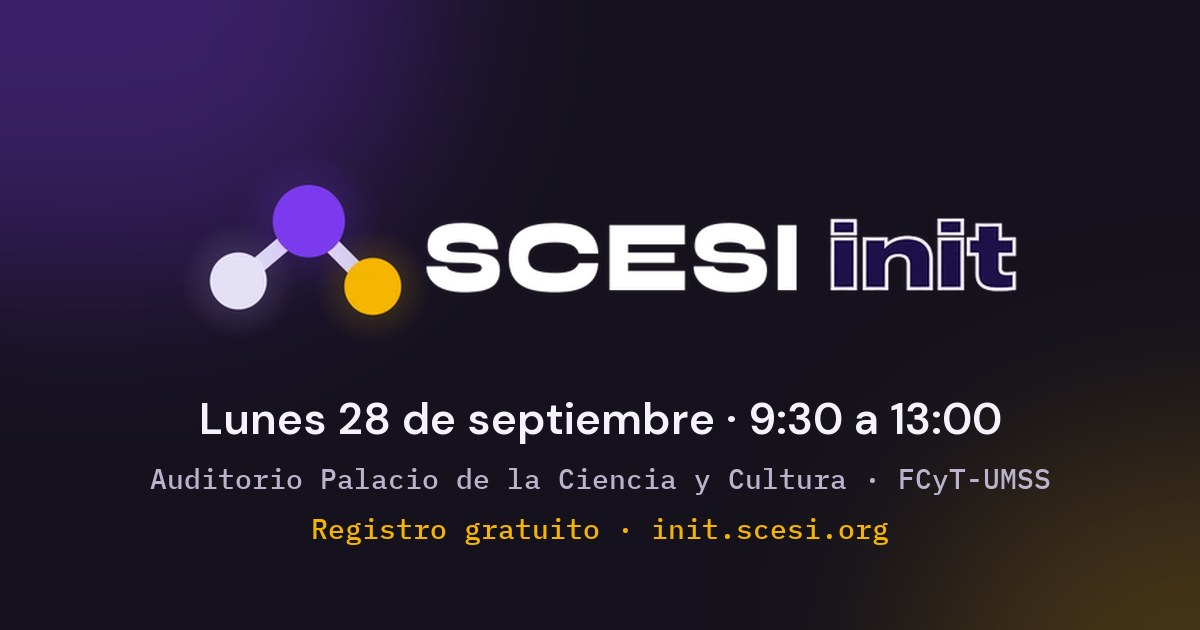
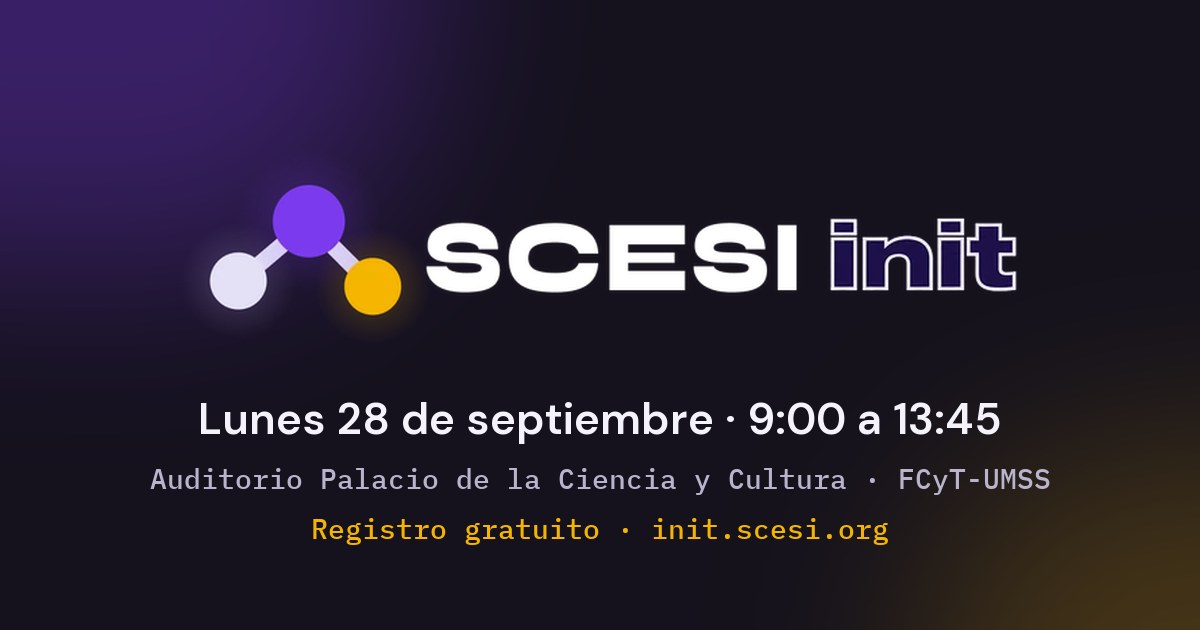
feat: add new speakers with photos and update event hours

Changed region(s): [[0.185, 0.6333, 0.5858, 0.6937], [0.6167, 0.6333, 0.8325, 0.6937]]

diff --git a/index.html b/index.html
@@ -4,7 +4,7 @@
 <meta charset="utf-8">
 <title>SCESI init</title>
 <meta content="width=device-width, initial-scale=1.0" name="viewport">
-<meta name="description" content="Lunes 28 de septiembre · 9:30 a 13:00 · Auditorio Palacio de la Ciencia y Cultura, FCyT-UMSS. El evento donde tu camino en Informática y Sistemas empieza. Registro gratuito.">
+<meta name="description" content="Lunes 28 de septiembre · 9:00 a 13:45 · Auditorio Palacio de la Ciencia y Cultura, FCyT-UMSS. El evento donde tu camino en Informática y Sistemas empieza. Registro gratuito.">
 <meta name="theme-color" content="#15121d">
 
 <!-- Vista previa al compartir el enlace (WhatsApp, Discord, Instagram, X).
@@ -15,19 +15,19 @@
 <meta property="og:site_name" content="SCESI init">
 <meta property="og:locale" content="es_BO">
 <meta property="og:title" content="SCESI init">
-<meta property="og:description" content="Lunes 28 de septiembre · 9:30 a 13:00 · Auditorio Palacio de la Ciencia y Cultura, FCyT-UMSS. El evento donde tu camino en Informática y Sistemas empieza. Registro gratuito.">
+<meta property="og:description" content="Lunes 28 de septiembre · 9:00 a 13:45 · Auditorio Palacio de la Ciencia y Cultura, FCyT-UMSS. El evento donde tu camino en Informática y Sistemas empieza. Registro gratuito.">
 <meta property="og:url" content="https://init.scesi.org/">
-<meta property="og:image" content="https://init.scesi.org/img/og.jpg?v=1">
-<meta property="og:image:secure_url" content="https://init.scesi.org/img/og.jpg?v=1">
+<meta property="og:image" content="https://init.scesi.org/img/og.jpg?v=2">
+<meta property="og:image:secure_url" content="https://init.scesi.org/img/og.jpg?v=2">
 <meta property="og:image:type" content="image/jpeg">
 <meta property="og:image:width" content="1200">
 <meta property="og:image:height" content="630">
-<meta property="og:image:alt" content="SCESI init · Lunes 28 de septiembre · 9:30 a 13:00 · FCyT-UMSS">
+<meta property="og:image:alt" content="SCESI init · Lunes 28 de septiembre · 9:00 a 13:45 · FCyT-UMSS">
 
 <meta name="twitter:card" content="summary_large_image">
 <meta name="twitter:title" content="SCESI init">
-<meta name="twitter:description" content="Lunes 28 de septiembre · 9:30 a 13:00 · Auditorio Palacio de la Ciencia y Cultura, FCyT-UMSS. El evento donde tu camino en Informática y Sistemas empieza. Registro gratuito.">
-<meta name="twitter:image" content="https://init.scesi.org/img/og.jpg?v=1">
+<meta name="twitter:description" content="Lunes 28 de septiembre · 9:00 a 13:45 · Auditorio Palacio de la Ciencia y Cultura, FCyT-UMSS. El evento donde tu camino en Informática y Sistemas empieza. Registro gratuito.">
+<meta name="twitter:image" content="https://init.scesi.org/img/og.jpg?v=2">
 
 <link rel="icon" href="favicon.svg" type="image/svg+xml">
 <link href="https://fonts.googleapis.com" rel="preconnect">
@@ -44,7 +44,7 @@
 <link rel="dns-prefetch" href="https://maps.gstatic.com">
 <link href="https://fonts.googleapis.com/css2?family=DM+Sans:ital,opsz,wght@0,9..40,100..1000;1,9..40,100..1000&amp;family=IBM+Plex+Mono:ital,wght@0,100;0,200;0,300;0,400;0,500;0,600;0,700;1,100;1,200;1,300;1,400;1,500;1,600;1,700&amp;family=Syne:wght@400..800&amp;display=swap" rel="stylesheet">
 <link href="https://fonts.googleapis.com/css2?family=Material+Symbols+Outlined:wght,FILL@100..700,0..1&amp;display=swap" rel="stylesheet">
-<link rel="stylesheet" href="styles.css?v=24">
+<link rel="stylesheet" href="styles.css?v=29">
 </head>
 <body class="bg-background font-body-md text-on-surface antialiased selection:bg-primary-container selection:text-on-primary-container">
 
@@ -112,7 +112,7 @@
           <span class="material-symbols-outlined text-tertiary text-[22px] shrink-0">event</span>
           <span class="font-label-code-md text-label-code-md font-bold text-tertiary-fixed" data-evento-fecha>Lunes 28 de septiembre</span>
           <span class="text-on-surface-variant">·</span>
-          <span class="font-label-code-md text-label-code-md font-bold text-secondary">9:30 — 13:00</span>
+          <span class="font-label-code-md text-label-code-md font-bold text-secondary">9:00 — 13:45</span>
         </div>
         <div class="flex items-start gap-spacing-2xs">
           <span class="material-symbols-outlined text-tertiary text-[22px] shrink-0">location_on</span>
@@ -174,38 +174,12 @@
       </p>
     </div>
 
-    <!-- Mobile: apiladas en una columna. Desde sm, 2 filas: arriba 2 tarjetas
-         centradas, abajo 3 (ver #speakers-grid en styles.css). Cada tarjeta:
+    <!-- Mobile: apiladas en una columna. Desde sm, en el orden del
+         cronograma: Jairo y Winsor centrados arriba, luego ICPC y el resto en
+         filas de 3 (ver #speakers-grid en styles.css). Cada tarjeta:
          nombre, foto (speakers/) y perfil abreviado de alto fijo, para que
          las cinco midan lo mismo. -->
     <div id="speakers-grid">
-      <article class="spk-1 group min-w-0 rounded-2xl overflow-hidden bg-surface-container-low border border-[#C4B5FD]/20 flex flex-col transition-colors duration-300 hover:border-[#8B5CF6]/50">
-        <div class="h-14 sm:h-[3.75rem] shrink-0 px-spacing-xs sm:px-spacing-sm flex items-center">
-          <h3 class="font-headline-sm text-[15px] sm:text-title-md font-bold text-on-surface leading-tight line-clamp-2">Lic. Leticia Blanco Coca</h3>
-        </div>
-
-        <div class="relative aspect-[4/5] sm:aspect-[5/4] overflow-hidden bg-gradient-to-b from-surface-container to-surface-container-lowest flex items-center justify-center">
-          <span class="material-symbols-outlined text-[64px] text-on-surface-variant/30">person</span>
-          <img src="speakers/leticia.webp" alt="Lic. Leticia Blanco Coca" loading="lazy" onerror="this.remove()"
-               class="absolute inset-0 w-full h-full object-cover object-top transition-transform duration-500 group-hover:scale-105">
-        </div>
-        <div class="h-[6.25rem] sm:h-[5.25rem] shrink-0 p-spacing-xs sm:p-spacing-sm flex items-start overflow-hidden">
-          <p class="font-body-md text-[10px] leading-snug sm:text-[14px] sm:leading-[1.45] text-on-surface-variant line-clamp-6 sm:line-clamp-3">Docente titular y coach de los equipos de programación competitiva de la UMSS. Encargada de la organización de talleres y cursos de entrenamiento en la ICPC, impulsando el pensamiento lógico y el alto rendimiento académico de los estudiantes.</p>
-        </div>
-      </article>
-      <article class="spk-2 group min-w-0 rounded-2xl overflow-hidden bg-surface-container-low border border-[#C4B5FD]/20 flex flex-col transition-colors duration-300 hover:border-[#8B5CF6]/50">
-        <div class="h-14 sm:h-[3.75rem] shrink-0 px-spacing-xs sm:px-spacing-sm flex items-center">
-          <h3 class="font-headline-sm text-[15px] sm:text-title-md font-bold text-on-surface leading-tight line-clamp-2">Ing. Jorge Walter Orellana Araoz</h3>
-        </div>
-        <div class="relative aspect-[4/5] sm:aspect-[5/4] overflow-hidden bg-gradient-to-b from-surface-container to-surface-container-lowest flex items-center justify-center">
-          <span class="material-symbols-outlined text-[64px] text-on-surface-variant/30">person</span>
-          <img src="speakers/orellana.webp" alt="Ing. Jorge Walter Orellana Araoz, docente titular de la UMSS" loading="lazy" onerror="this.remove()"
-               class="absolute inset-0 w-full h-full object-cover object-top transition-transform duration-500 group-hover:scale-105">
-        </div>
-        <div class="h-[6.25rem] sm:h-[5.25rem] shrink-0 p-spacing-xs sm:p-spacing-sm flex items-start overflow-hidden">
-          <p class="font-body-md text-[10px] leading-snug sm:text-[14px] sm:leading-[1.45] text-on-surface-variant line-clamp-6 sm:line-clamp-3">Docente titular UMSS | Docente investigador Centro MEMI | Autor de 3 libros de Ciencias de la Computación</p>
-        </div>
-      </article>
       <article class="spk-3 group min-w-0 rounded-2xl overflow-hidden bg-surface-container-low border border-[#C4B5FD]/20 flex flex-col transition-colors duration-300 hover:border-[#8B5CF6]/50">
         <div class="h-14 sm:h-[3.75rem] shrink-0 px-spacing-xs sm:px-spacing-sm flex items-center">
           <h3 class="font-headline-sm text-[15px] sm:text-title-md font-bold text-on-surface leading-tight line-clamp-2">Ing. Jairo Andree Maida Rojas</h3>
@@ -217,7 +191,62 @@
                class="absolute inset-0 w-full h-full object-cover object-top transition-transform duration-500 group-hover:scale-105">
         </div>
         <div class="h-[6.25rem] sm:h-[5.25rem] shrink-0 p-spacing-xs sm:p-spacing-sm flex items-start overflow-hidden">
-          <p class="font-body-md text-[10px] leading-snug sm:text-[14px] sm:leading-[1.45] text-on-surface-variant line-clamp-6 sm:line-clamp-3">Graduado con honores de Ing. de Sistemas UMSS | AI Researcher | Competitive Programmer | Jr. Data Scientist &amp; Data Analyst</p>
+          <p class="font-body-md text-[10px] leading-snug sm:text-[14px] sm:leading-[1.45] text-on-surface-variant line-clamp-6 sm:line-clamp-3">Graduado con excelencia de Ing. de Sistemas UMSS | Investigador en IA | Jr. Data Scientist</p>
+        </div>
+      </article>
+      <article class="spk-5 group min-w-0 rounded-2xl overflow-hidden bg-surface-container-low border border-[#C4B5FD]/20 flex flex-col transition-colors duration-300 hover:border-[#8B5CF6]/50">
+        <div class="h-14 sm:h-[3.75rem] shrink-0 px-spacing-xs sm:px-spacing-sm flex items-center">
+          <h3 class="font-headline-sm text-[15px] sm:text-title-md font-bold text-on-surface leading-tight line-clamp-2">Ing. Winsor Omar Orellana Vasquez</h3>
+        </div>
+        <div class="relative aspect-[4/5] sm:aspect-[5/4] overflow-hidden bg-gradient-to-b from-surface-container to-surface-container-lowest flex items-center justify-center">
+          <span class="material-symbols-outlined text-[64px] text-on-surface-variant/30">person</span>
+          <img src="speakers/winsor.webp" alt="Ing. Winsor Omar Orellana Vasquez, ingeniero de software" loading="lazy" onerror="this.remove()"
+               class="absolute inset-0 w-full h-full object-cover object-top transition-transform duration-500 group-hover:scale-105">
+        </div>
+        <div class="h-[6.25rem] sm:h-[5.25rem] shrink-0 p-spacing-xs sm:p-spacing-sm flex items-start overflow-hidden">
+          <p class="font-body-md text-[10px] leading-snug sm:text-[14px] sm:leading-[1.45] text-on-surface-variant line-clamp-6 sm:line-clamp-3">Graduado con excelencia de Ing. de Sistemas UMSS | Ingeniero de Software Backend | Experiencia en bases de datos</p>
+        </div>
+      </article>
+      <article class="spk-1 group min-w-0 rounded-2xl overflow-hidden bg-surface-container-low border border-[#C4B5FD]/20 flex flex-col transition-colors duration-300 hover:border-[#8B5CF6]/50">
+        <div class="h-14 sm:h-[3.75rem] shrink-0 px-spacing-xs sm:px-spacing-sm flex items-center">
+          <h3 class="font-headline-sm text-[15px] sm:text-title-md font-bold text-on-surface leading-tight line-clamp-2">Lic. Leticia Blanco Coca</h3>
+        </div>
+
+        <div class="relative aspect-[4/5] sm:aspect-[5/4] overflow-hidden bg-gradient-to-b from-surface-container to-surface-container-lowest flex items-center justify-center">
+          <span class="material-symbols-outlined text-[64px] text-on-surface-variant/30">person</span>
+          <img src="speakers/leticia.webp" alt="Lic. Leticia Blanco Coca" loading="lazy" onerror="this.remove()"
+               class="absolute inset-0 w-full h-full object-cover object-top transition-transform duration-500 group-hover:scale-105">
+        </div>
+        <div class="h-[6.25rem] sm:h-[5.25rem] shrink-0 p-spacing-xs sm:p-spacing-sm flex items-start overflow-hidden">
+          <p class="font-body-md text-[10px] leading-snug sm:text-[14px] sm:leading-[1.45] text-on-surface-variant line-clamp-6 sm:line-clamp-3">Docente titular UMSS | Coach de programación competitiva | Organizadora de entrenamientos ICPC</p>
+        </div>
+      </article>
+      <article class="spk-6 group min-w-0 rounded-2xl overflow-hidden bg-surface-container-low border border-[#C4B5FD]/20 flex flex-col transition-colors duration-300 hover:border-[#8B5CF6]/50">
+        <div class="h-14 sm:h-[3.75rem] shrink-0 px-spacing-xs sm:px-spacing-sm flex items-center">
+          <h3 class="font-headline-sm text-[15px] sm:text-title-md font-bold text-on-surface leading-tight line-clamp-2">Ing. Rodrigo Joaquin Salguero Morales</h3>
+        </div>
+
+        <div class="relative aspect-[4/5] sm:aspect-[5/4] overflow-hidden bg-gradient-to-b from-surface-container to-surface-container-lowest flex items-center justify-center">
+          <span class="material-symbols-outlined text-[64px] text-on-surface-variant/30">person</span>
+          <img src="speakers/rodrigo.webp" alt="Ing. Rodrigo Joaquin Salguero Morales" loading="lazy" onerror="this.remove()"
+               class="absolute inset-0 w-full h-full object-cover object-top transition-transform duration-500 group-hover:scale-105">
+        </div>
+        <div class="h-[6.25rem] sm:h-[5.25rem] shrink-0 p-spacing-xs sm:p-spacing-sm flex items-start overflow-hidden">
+          <p class="font-body-md text-[10px] leading-snug sm:text-[14px] sm:leading-[1.45] text-on-surface-variant line-clamp-6 sm:line-clamp-3">Finalista mundial de la ICPC 2021 y 2024 | Representante de la UMSS en Bangladesh y Egipto</p>
+        </div>
+      </article>
+      <article class="spk-7 group min-w-0 rounded-2xl overflow-hidden bg-surface-container-low border border-[#C4B5FD]/20 flex flex-col transition-colors duration-300 hover:border-[#8B5CF6]/50">
+        <div class="h-14 sm:h-[3.75rem] shrink-0 px-spacing-xs sm:px-spacing-sm flex items-center">
+          <h3 class="font-headline-sm text-[15px] sm:text-title-md font-bold text-on-surface leading-tight line-clamp-2">Ing. Nicolas Mateo Valdivia Viscarra</h3>
+        </div>
+
+        <div class="relative aspect-[4/5] sm:aspect-[5/4] overflow-hidden bg-gradient-to-b from-surface-container to-surface-container-lowest flex items-center justify-center">
+          <span class="material-symbols-outlined text-[64px] text-on-surface-variant/30">person</span>
+          <img src="speakers/mateo.webp" alt="Ing. Nicolas Mateo Valdivia Viscarra" loading="lazy" onerror="this.remove()"
+               class="absolute inset-0 w-full h-full object-cover object-top transition-transform duration-500 group-hover:scale-105">
+        </div>
+        <div class="h-[6.25rem] sm:h-[5.25rem] shrink-0 p-spacing-xs sm:p-spacing-sm flex items-start overflow-hidden">
+          <p class="font-body-md text-[10px] leading-snug sm:text-[14px] sm:leading-[1.45] text-on-surface-variant line-clamp-6 sm:line-clamp-3">Finalista mundial de la ICPC 2024 y 2025 | Representante de la UMSS en Egipto y Azerbaiyán | Participante de la IOI 2020 y 2021</p>
         </div>
       </article>
       <article class="spk-4 group min-w-0 rounded-2xl overflow-hidden bg-surface-container-low border border-[#C4B5FD]/20 flex flex-col transition-colors duration-300 hover:border-[#8B5CF6]/50">
@@ -233,17 +262,31 @@
           <p class="font-body-md text-[10px] leading-snug sm:text-[14px] sm:leading-[1.45] text-on-surface-variant line-clamp-6 sm:line-clamp-3">Gerente general Digital Services | Vicepresidente 2020 Cámara Junior Tunari | Equipo administrativo Twintro</p>
         </div>
       </article>
-      <article class="spk-5 group min-w-0 rounded-2xl overflow-hidden bg-surface-container-low border border-[#C4B5FD]/20 flex flex-col transition-colors duration-300 hover:border-[#8B5CF6]/50">
+      <article class="spk-2 group min-w-0 rounded-2xl overflow-hidden bg-surface-container-low border border-[#C4B5FD]/20 flex flex-col transition-colors duration-300 hover:border-[#8B5CF6]/50">
         <div class="h-14 sm:h-[3.75rem] shrink-0 px-spacing-xs sm:px-spacing-sm flex items-center">
-          <h3 class="font-headline-sm text-[15px] sm:text-title-md font-bold text-on-surface leading-tight line-clamp-2">Ing. Winsor Omar Orellana Vasquez</h3>
+          <h3 class="font-headline-sm text-[15px] sm:text-title-md font-bold text-on-surface leading-tight line-clamp-2">Ing. Jorge Walter Orellana Araoz</h3>
         </div>
         <div class="relative aspect-[4/5] sm:aspect-[5/4] overflow-hidden bg-gradient-to-b from-surface-container to-surface-container-lowest flex items-center justify-center">
           <span class="material-symbols-outlined text-[64px] text-on-surface-variant/30">person</span>
-          <img src="speakers/winsor.webp" alt="Ing. Winsor Omar Orellana Vasquez, ingeniero de software" loading="lazy" onerror="this.remove()"
+          <img src="speakers/orellana.webp" alt="Ing. Jorge Walter Orellana Araoz, docente titular de la UMSS" loading="lazy" onerror="this.remove()"
                class="absolute inset-0 w-full h-full object-cover object-top transition-transform duration-500 group-hover:scale-105">
         </div>
         <div class="h-[6.25rem] sm:h-[5.25rem] shrink-0 p-spacing-xs sm:p-spacing-sm flex items-start overflow-hidden">
-          <p class="font-body-md text-[10px] leading-snug sm:text-[14px] sm:leading-[1.45] text-on-surface-variant line-clamp-6 sm:line-clamp-3">Graduado con excelencia de Ing. de Sistemas UMSS | Ingeniero de Software Backend | Experiencia en soluciones empresariales y bases de datos</p>
+          <p class="font-body-md text-[10px] leading-snug sm:text-[14px] sm:leading-[1.45] text-on-surface-variant line-clamp-6 sm:line-clamp-3">Docente titular UMSS | Investigador del Centro MEMI | Autor de 3 libros de Ciencias de la Computación</p>
+        </div>
+      </article>
+      <article class="spk-8 group min-w-0 rounded-2xl overflow-hidden bg-surface-container-low border border-[#C4B5FD]/20 flex flex-col transition-colors duration-300 hover:border-[#8B5CF6]/50">
+        <div class="h-14 sm:h-[3.75rem] shrink-0 px-spacing-xs sm:px-spacing-sm flex items-center">
+          <h3 class="font-headline-sm text-[15px] sm:text-title-md font-bold text-on-surface leading-tight line-clamp-2">Ing. Ariel Mamani Nina</h3>
+        </div>
+
+        <div class="relative aspect-[4/5] sm:aspect-[5/4] overflow-hidden bg-gradient-to-b from-surface-container to-surface-container-lowest flex items-center justify-center">
+          <span class="material-symbols-outlined text-[64px] text-on-surface-variant/30">person</span>
+          <img src="speakers/ariel.webp" style="object-position:50% 100%" alt="Ing. Ariel Mamani Nina" loading="lazy" onerror="this.remove()"
+               class="absolute inset-0 w-full h-full object-cover object-top transition-transform duration-500 group-hover:scale-105">
+        </div>
+        <div class="h-[6.25rem] sm:h-[5.25rem] shrink-0 p-spacing-xs sm:p-spacing-sm flex items-start overflow-hidden">
+          <p class="font-body-md text-[10px] leading-snug sm:text-[14px] sm:leading-[1.45] text-on-surface-variant line-clamp-6 sm:line-clamp-3">Technical Lead en Data Science y ML | MLOps con Databricks | Arquitectura de soluciones de IA</p>
         </div>
       </article>
     </div>
@@ -412,7 +455,7 @@
             <span class="material-symbols-outlined text-tertiary text-[22px] shrink-0">event</span>
             <div class="flex flex-col gap-1">
               <span class="font-label-code-md text-label-code-md font-bold text-tertiary-fixed" data-evento-fecha>Lunes 28 de septiembre</span>
-              <span class="font-body-md text-body-md text-on-surface-variant">9:30 — 13:00 · Entrada libre</span>
+              <span class="font-body-md text-body-md text-on-surface-variant">9:00 — 13:45 · Entrada libre</span>
             </div>
           </div>
 

diff --git a/styles.css b/styles.css
@@ -2,3 +2,7 @@
 .graph-zoom{position:absolute;right:.5rem;bottom:.5rem;z-index:5;display:flex;flex-direction:column;gap:.25rem}.graph-zoom button{width:2.5rem;height:2.5rem;display:flex;align-items:center;justify-content:center;border-radius:9999px;background:rgba(30,26,40,.82);border:1px solid rgba(196,181,253,.25);color:#e7dff0;backdrop-filter:blur(6px);transition:background-color .15s,opacity .15s}.graph-zoom button:hover{background:rgba(60,52,80,.9)}.graph-zoom button:disabled{opacity:.35;cursor:default}.graph-zoom .material-symbols-outlined{font-size:22px}
 @media (max-width:639.98px){#speakers-grid{gap:.75rem}#speakers-grid article{display:grid;grid-template-columns:7.5rem minmax(0,1fr);grid-template-rows:auto 1fr;min-height:7.5rem}#speakers-grid article>div:nth-child(1){grid-column:2;grid-row:1;height:auto;padding:.75rem .85rem 0}#speakers-grid article>div:nth-child(2){grid-column:1;grid-row:1/span 2;aspect-ratio:auto;height:100%;min-height:7.5rem}#speakers-grid article>div:nth-child(3){grid-column:2;grid-row:2;height:auto;padding:.3rem .85rem .75rem}#speakers-grid h3{font-size:16px}#speakers-grid article p{font-size:13px;line-height:1.45;-webkit-line-clamp:unset;display:block}#speakers-grid article>div:nth-child(2) .material-symbols-outlined{font-size:40px}}
 #speakers-grid article>div:nth-child(3){height:auto;flex:1 1 auto}#speakers-grid article p{-webkit-line-clamp:unset;display:block;overflow:visible}
+@media (min-width:640px){#speakers-grid article{grid-column:span 2;grid-row:auto}}
+@media (min-width:640px){#speakers-grid article:nth-child(1){grid-column:2/4}#speakers-grid article:nth-child(2){grid-column:4/6}}
+@media (max-width:420px){.hero-title{font-size:min(8vw,2.1rem)}.text-headline-lg{font-size:clamp(2rem,10vw,48px);line-height:1.15}}#speakers-grid h3{-webkit-line-clamp:unset;display:block}@media (min-width:640px){#speakers-grid article{display:grid;grid-template-rows:subgrid;grid-row:span 3}#speakers-grid article>div:nth-child(1){height:auto;min-height:3.75rem;padding-top:.6rem;padding-bottom:.6rem}}
+#speakers-grid div:has(>img)>.material-symbols-outlined{display:none}
